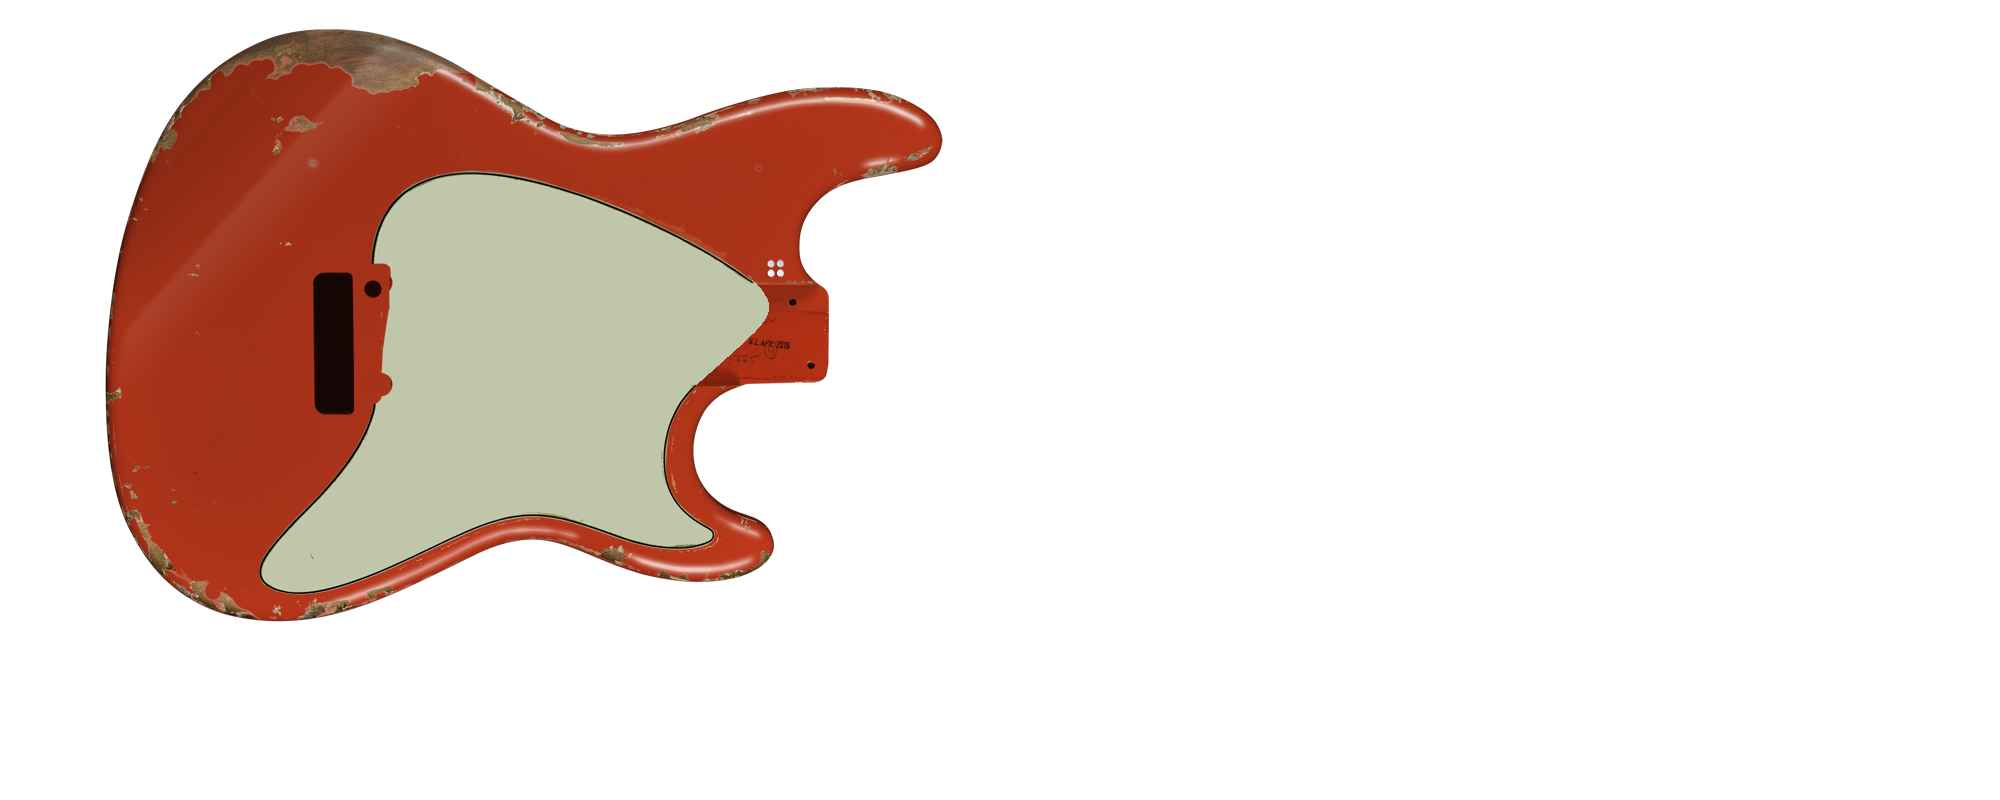
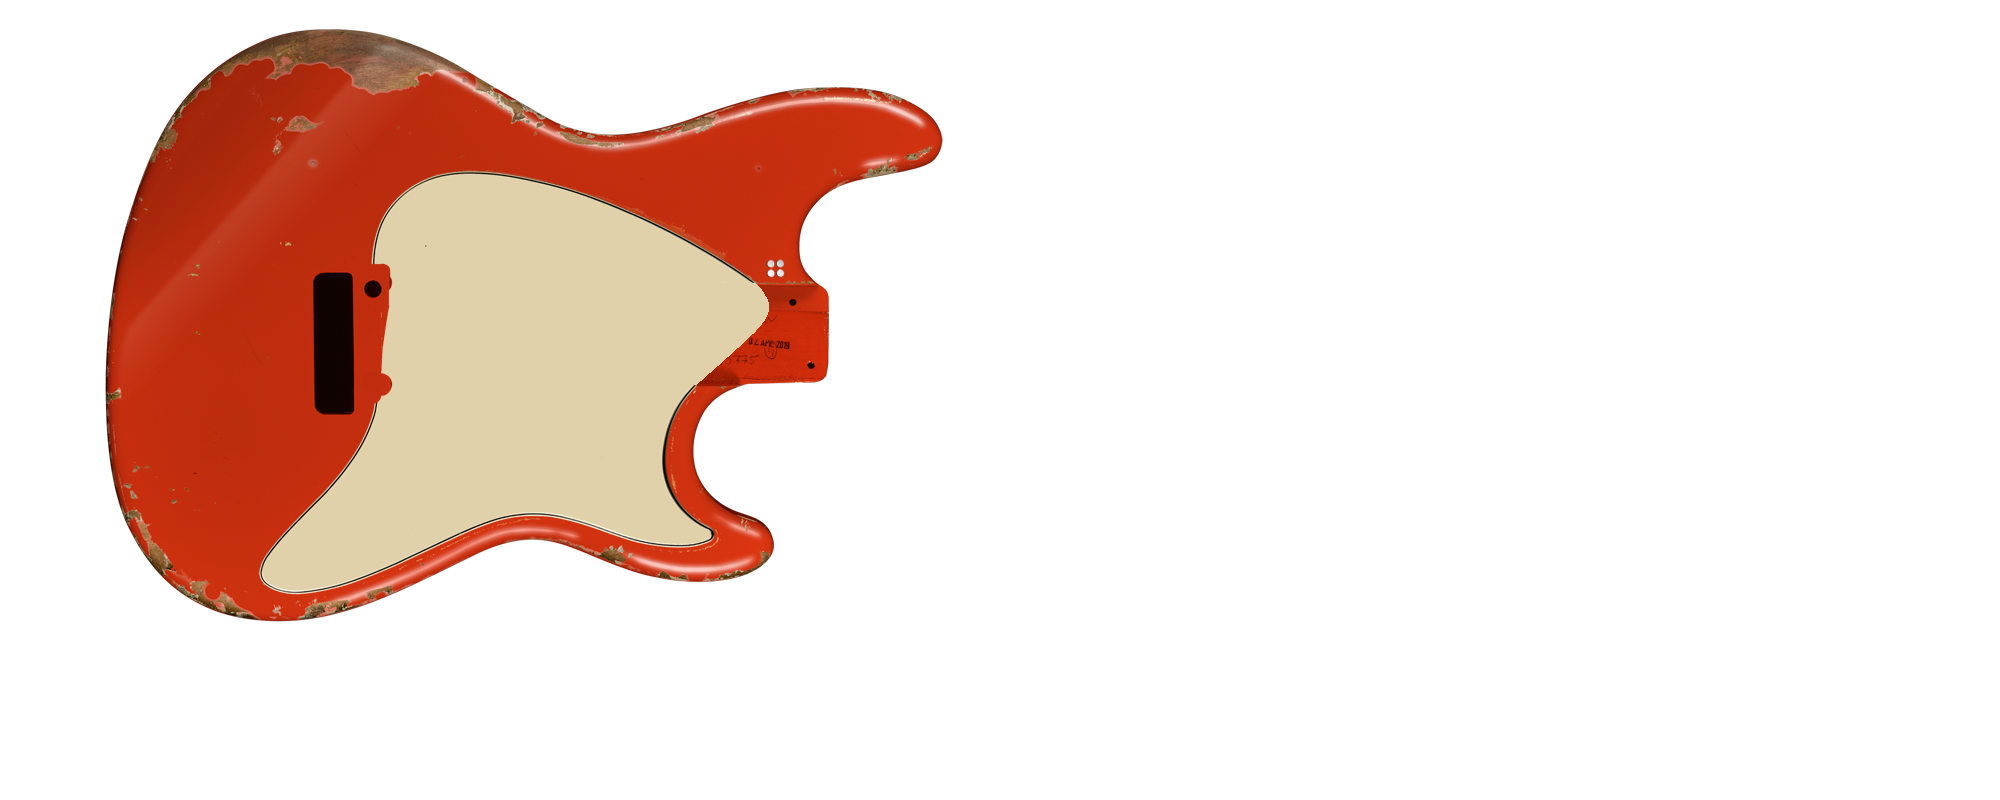
Updating images

Changed region(s): [[0.031, 0.0625, 0.496, 0.7812]]

diff --git a/data.js b/data.js
@@ -19,19 +19,19 @@ const GuitarElements = {
         price: 7000
       },
       {
-        name: "Red: soft aged",
-        img: "images/body/Red-1.png",
-        price: 3275
+        name: "VIP-Black: soft aged",  
+        img: "images/body/VIP_Black-1.png",
+        price: 6000
       },
       {
-        name: "Red: hardcore aged",
-        img: "images/body/Red-2.png",
-        price: 4000
+        name: "VIP-Black: hardcore aged",
+        img: "images/body/VIP_Black-2.png",
+        price: 7500
       },
       {
-        name: "Red: masterpiece",
-        img: "images/body/Red-3.png",
-        price: 4750
+        name: "VIP-Black: masterpiece",
+        img: "images/body/VIP_Black-3.png",
+        price: 8000
       },
       {
         name: "Sunburst: soft aged",
@@ -50,41 +50,116 @@ const GuitarElements = {
       },
       {
         name: "Creme: soft aged",
-        img: "images/body/White-1.png",
+        img: "images/body/Creme-1.png",
         price: 4250
       },
       {
         name: "Creme: hard aged",
-        img: "images/body/White-2.png",
+        img: "images/body/Creme-2.png",
         price: 5700
       },
       {
         name: "Creme: masterpiece",
-        img: "images/body/White-3.png",
+        img: "images/body/Creme-3.png",
         price: 8425
-      }
-    ],
-  
-   
-    neck: [
+      },
       {
-        name: "Гриф по умолчанию",
-        img: "images/neck/neck-1.png",
-        price: 3000
+        name: "Red: soft aged",
+        img: "images/body/Red-1.png",
+        price: 3275
+      },
+      {
+        name: "Red: hardcore aged",
+        img: "images/body/Red-2.png",
+        price: 4000
+      },
+      {
+        name: "Red: masterpiece",
+        img: "images/body/Red-3.png",
+        price: 4750
       },
     ],
   
 
     head: [
       {
-        name: "Голова по умолчанию",
-        img: "images/head/Sunburst-1.png",
+        name: "Standart",
+        img: "images/head/Standart.png",
         price: 2000
       },
       {
-        name: "Альтернативная голова",
-        img: "images/head/Sunburst-2.png",
+        name: "Black",
+        img: "images/head/Black.png",
+        price: 4000
+      },
+      {
+        name: "Sunburst",
+        img: "images/head/Sunburst.png",
+        price: 3275
+      },
+      {
+        name: "Creme",
+        img: "images/head/Creme.png",
         price: 3500
+      },
+      {
+        name: "Red",
+        img: "images/head/Red.png",
+        price: 2700
+      }
+    ],
+
+
+    neck: [
+      {
+        name: "SSS: rosewood",
+        img: "images/neck/SSS_rosewood.png",
+        price: 4375
+      },
+      {
+        name: "HSS: rosewood",
+        img: "images/neck/HSS_rosewood.png",
+        price: 5075
+      },
+      {
+        name: "SSS: VIP-rosewood",
+        img: "images/neck/SSS_VIP_rosewood.png",
+        price: 5225
+      },
+      {
+        name: "HSS: VIP-rosewood",
+        img: "images/neck/HSS_VIP_rosewood.png",
+        price: 5925
+      },
+      {
+        name: "SSS: pau ferro",
+        img: "images/neck/SSS_pau_ferro.png",
+        price: 3000
+      },
+      {
+        name: "HSS: pau ferro",
+        img: "images/neck/HSS_pau_ferro.png",
+        price: 3700
+      },
+      {
+        name: "SSS: maple",
+        img: "images/neck/SSS_maple.png",
+        price: 3725
+      },
+      {
+        name: "HSS: maple",
+        img: "images/neck/HSS_maple.png",
+        price: 4425
+      },
+      {
+        name: "SSS: ebony",
+        img: "images/neck/SSS_ebony.png",
+        price: 7865
+      },
+      {
+        name: "HSS: ebony",
+        img: "images/neck/HSS_ebony.png",
+        price: 8565
       }
     ]
   };

diff --git a/new.css b/new.css
@@ -222,7 +222,7 @@ h3 {
 }
 
 .dropdown-content div:hover {
-    background-color: #f1f1f1;
+    background-color: #eee;
 }
 
 .dropdown-content div.selected {
